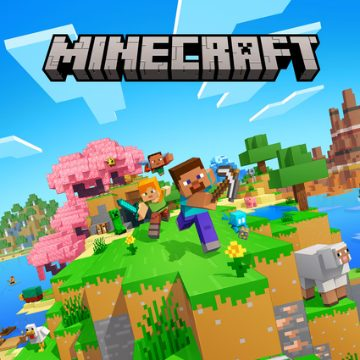
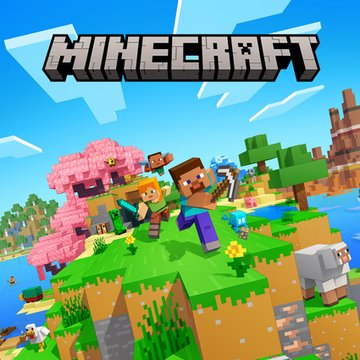
Nova capa do Minecraft

diff --git a/index.html b/index.html
@@ -226,7 +226,7 @@ footer a{color:var(--ciano);text-decoration:none;font-weight:700}
     else acao = `<button class="btn" data-rm="${j.id}">✓ Na lista</button>`;
     const selo = SELO[s] ? `<span class="status ${SELO[s][1]}">${SELO[s][0]}</span>` : "";
     return `<article class="card${q?" sel":""} st-${s}" data-id="${j.id}">
-      <div class="capa"><img src="${capa(j)}" alt="${esc(j.nome)}" loading="lazy" onerror="this.onerror=null;this.src='icon-512.png'"${j.id==="minecraft"?' class="contain"':""}>
+      <div class="capa"><img src="${capa(j)}" alt="${esc(j.nome)}" loading="lazy" onerror="this.onerror=null;this.src='icon-512.png'">
         <span class="selo">PS4</span>${s==="disponivel"&&j.qtd>1?`<span class="estq">${j.qtd} unidades</span>`:""}${selo}
         <span class="check"><svg width="16" height="16" viewBox="0 0 24 24" fill="none" stroke="#062b14" stroke-width="3.5"><path d="m5 12 5 5 9-10"/></svg></span></div>
       <div class="corpo"><div class="nome">${esc(j.nome)}</div>${preco}${acao}</div></article>`;

diff --git a/admin.html b/admin.html
@@ -398,8 +398,7 @@ input:focus,select:focus{border-color:var(--azul)}
       x.fillStyle="#0e1029"; x.fillRect(cx,cy,cw,ch);
       const im=imgs[i];
       if(im){
-        if(j.id==="minecraft"){ const s=Math.min((cw-24)/im.width,(ch-24)/im.height); x.drawImage(im,cx+(cw-im.width*s)/2,cy+(ch-im.height*s)/2,im.width*s,im.height*s); }
-        else { const s=Math.max(cw/im.width,ch/im.height), sw=cw/s, sh=ch/s; x.drawImage(im,(im.width-sw)/2,(im.height-sh)/2,sw,sh,cx,cy,cw,ch); }
+        const s=Math.max(cw/im.width,ch/im.height), sw=cw/s, sh=ch/s; x.drawImage(im,(im.width-sw)/2,(im.height-sh)/2,sw,sh,cx,cy,cw,ch);
       }
       x.restore();
       // selo PS4
